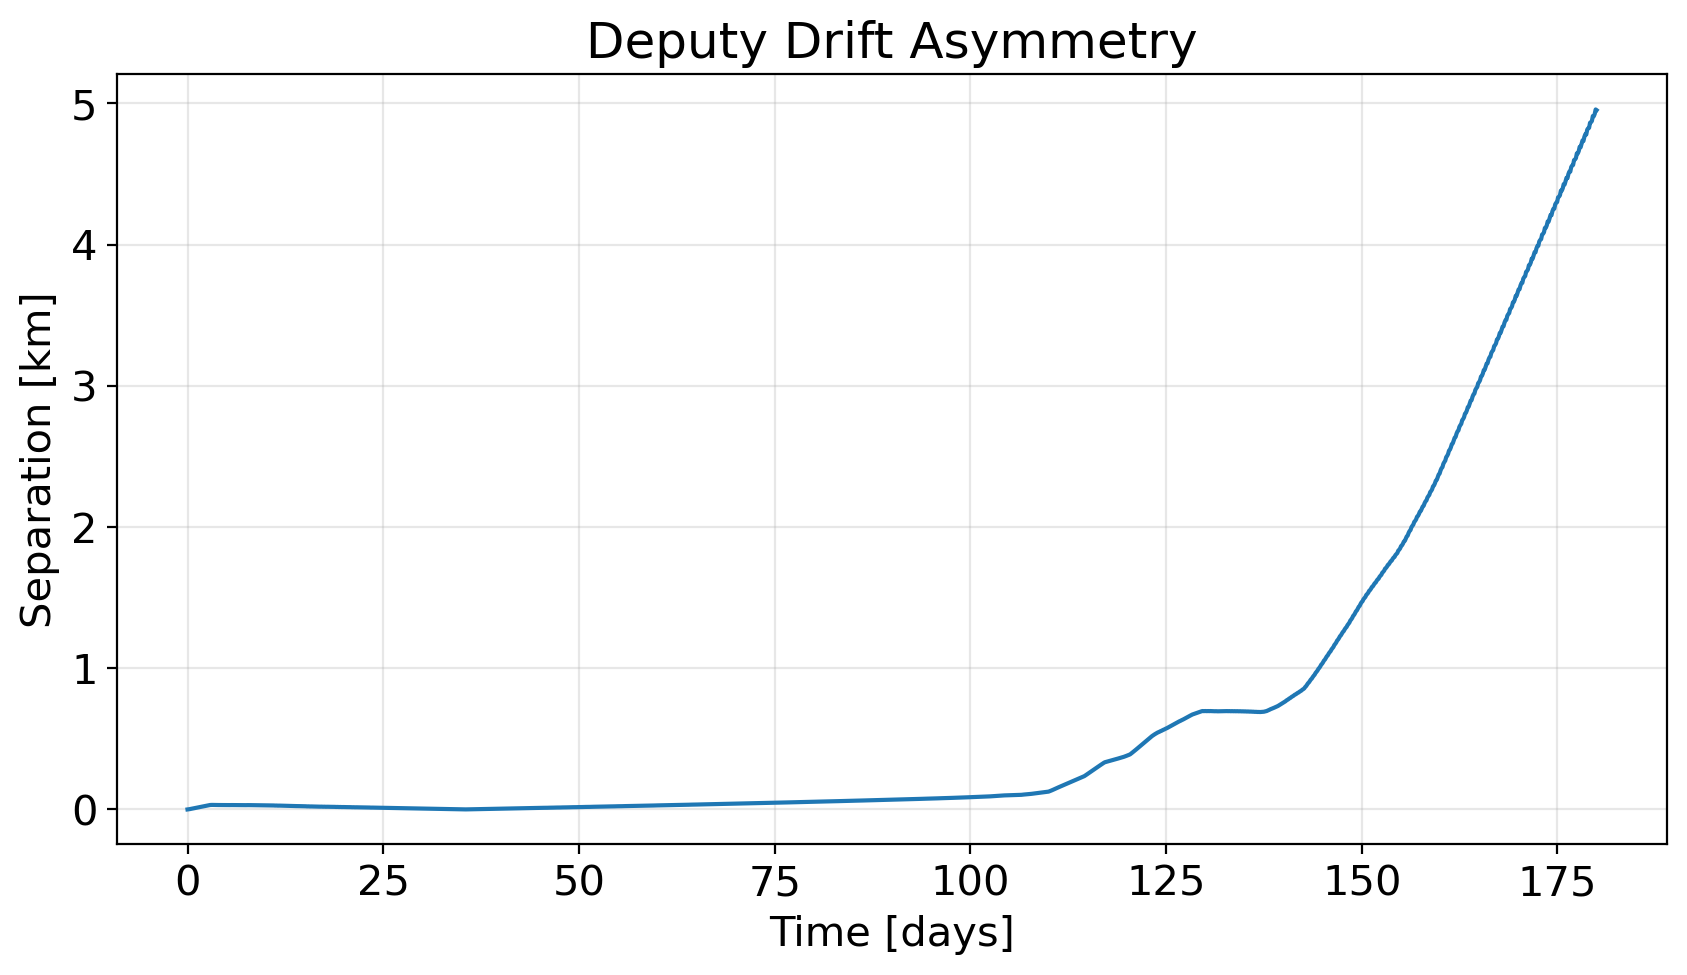
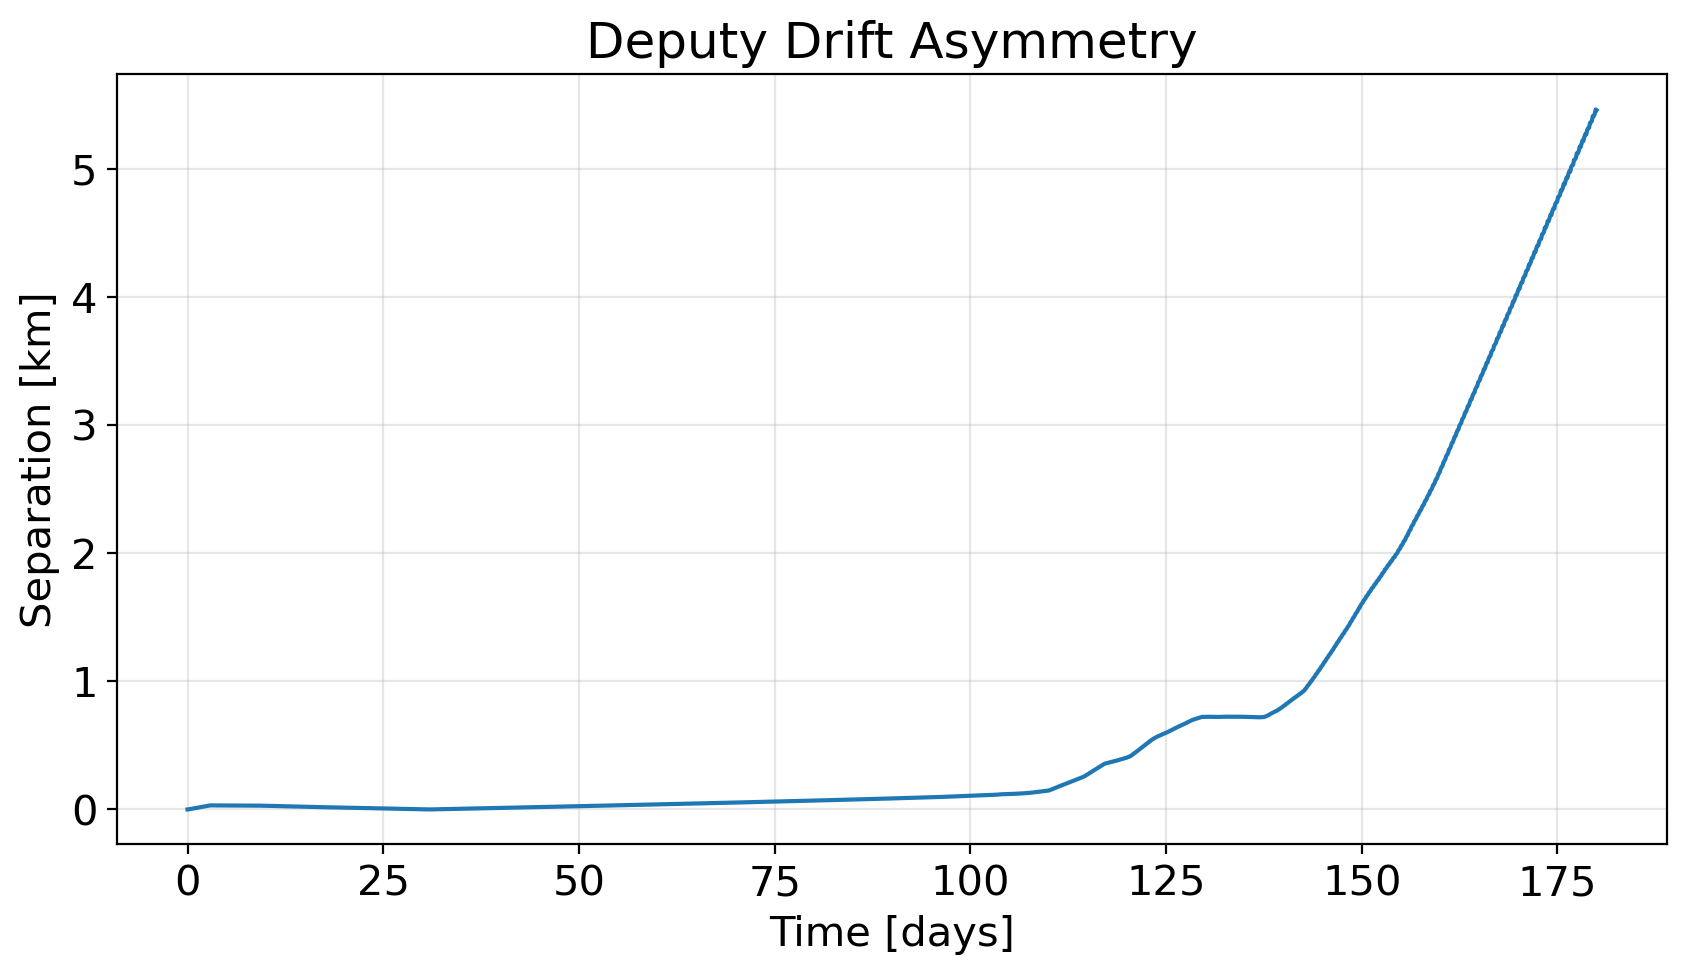
last round of figures

diff --git a/term_project/src/propagate.py b/term_project/src/propagate.py
@@ -735,33 +735,6 @@ def init_close_helix_deputies(
     """
     Initialize two deputies in a helix formation WITH J2-invariant conditions.
 
-    Unlike the naive helix initializer that sets δa = 0, this function
-    computes the required δa from the J2-invariant conditions:
-
-        δΩ̇ = 0   →   constrains δa as a function of δi
-        δ(Ṁ + ω̇) = 0   →   provides second constraint relating δa, δe, δi
-
-    The resulting formation has a small but non-zero semi-major axis offset
-    that exactly cancels the differential J2 precession caused by δe and δi.
-    This prevents the secular along-track drift that otherwise dominates
-    relative motion on timescales of weeks to months.
-
-    For a near-circular chief (e_c ≈ 0), the J2-invariant conditions reduce to:
-
-        Condition 1 (δΩ̇ = 0):
-            δa/a = -(2/7) × tan(i_c) × δi_x
-
-        Condition 2 (δ(Ṁ + ω̇) = 0):
-            δa/a = [4η(5cos²i - 1)/(2η+1)(7(1-3sin²i/2)η + 4(5cos²i-1))] 
-                   × sin(2i)/(1 - 5cos²i) × ... (complex)
-
-    In practice for SSO inclinations (~98°), both conditions are approximately
-    satisfied by the same δa when δe is small relative to δi, because the
-    eccentricity coupling terms are suppressed by the near-circular geometry.
-
-    The implementation uses the full Schaub & Junkins formulation (§13.6)
-    for the combined secular rate matching.
-
     Parameters
     ----------
     chief_orbit : KeplerianOrbit
@@ -793,30 +766,6 @@ def init_close_helix_deputies(
     de_mag = helix_radius_m / a
     di_mag = (2.0 * helix_radius_m) / a
 
-
-    # phi = u0
-    # theta = u0
-
-    # dex = de_mag * np.cos(phi)
-    # dey = de_mag * np.sin(phi)
-    # dix = di_mag * np.cos(theta)
-    # diy = di_mag * np.sin(theta)
-
-    # eta = np.sqrt(1.0 - e_c**2)
-    # p = a * (1.0 - e_c**2)
-    # sin_i = np.sin(i_c)
-    # cos_i = np.cos(i_c)
-    # tan_i = sin_i / cos_i  # Note: negative for i > 90° (retrograde SSO)
-
-    # # Gamma factor: (Re/p)²
-    # gamma = (R_e / p)**2
-
-
-    # da_over_a_from_raan = -(2.0 / 7.0) * tan_i * di_mag
-
-
-    # da_over_a = da_over_a_from_raan
-
     phi   =  np.pi / 2   # relative eccentricity vector phase
     theta = -np.pi / 2   # relative inclination vector phase (anti-parallel: phi = -theta)
 
@@ -839,6 +788,7 @@ def init_close_helix_deputies(
         # dl = T_offset/a - 2*curr_dey*cos(u0)
         T_offset = sign * mean_dist_m
         dl = (T_offset / a) + 2.0 * curr_dex * np.sin(u0) - 2.0 * curr_dey * np.cos(u0)
+        dl = T_offset/a
 
         roes.append(dict(
             da=float(curr_da_over_a),
@@ -880,10 +830,11 @@ def apply_ROE(chief_orbit, roe):
     argp_d = float(np.arctan2(ey_d, ex_d))
 
     i_d = float(i_c + roe["dix"])
-    raan_d = float(raan_c + roe["diy"] / np.sin(i_c))
-
+    d_raan = roe["diy"] / np.sin(i_c)
+    raan_d = float(raan_c + d_raan)
     d_argp = argp_d - argp_c
-    M_d = float(M_c + roe["dl"] - d_argp)
+    # M_d = float(M_c + roe["dl"] - d_argp)
+    M_d = float(M_c + roe["dl"] - d_argp - d_raan * np.cos(i_c))
 
     return KeplerianOrbit(
         a_d, e_d, i_d, argp_d, raan_d, M_d,

diff --git a/term_project/src/design_A_final.py b/term_project/src/design_A_final.py
@@ -33,7 +33,7 @@ from propagate import (
 
 # ── Save directory ──
 THIS_DIR = Path(__file__).resolve().parent
-path = THIS_DIR.parent / "figs" / "full_force_model" / "design_A" / "pearls"
+path = None#THIS_DIR.parent / "figs" / "full_force_model" / "design_A" / "helix"
 
 # ══════════════════════════════════════════════════════════════════════
 # SETUP
@@ -76,16 +76,16 @@ chief_orbit = KeplerianOrbit(
 # ══════════════════════════════════════════════════════════════════════
 # DEPUTY INITIALIZATION — HELIX
 # ══════════════════════════════════════════════════════════════════════
-# deputy_roes   = init_close_helix_deputies(chief_orbit, helix_radius_m=300)
-deputy_roes     = init_string_of_pearls(chief_orbit, separation_m=500)
+deputy_roes   = init_close_helix_deputies(chief_orbit, helix_radius_m=50)
+# deputy_roes     = init_string_of_pearls(chief_orbit, separation_m=500)
 deputy_orbits = [apply_ROE(chief_orbit, r) for r in deputy_roes]
 
 # ══════════════════════════════════════════════════════════════════════
 # TIME GRID
 # ══════════════════════════════════════════════════════════════════════
-# T_orb  = 2 * np.pi * float(np.sqrt(a_c**3 / mu))
-# T_span = 5 * T_orb
-T_span = 6 * 30 * 24 * 3600
+T_orb  = 2 * np.pi * float(np.sqrt(a_c**3 / mu))
+T_span = 5 * T_orb
+# T_span = 6 * 30 * 24 * 3600
 N      = 1500
 times  = np.linspace(0, T_span, N)
 days   = times / 86400
